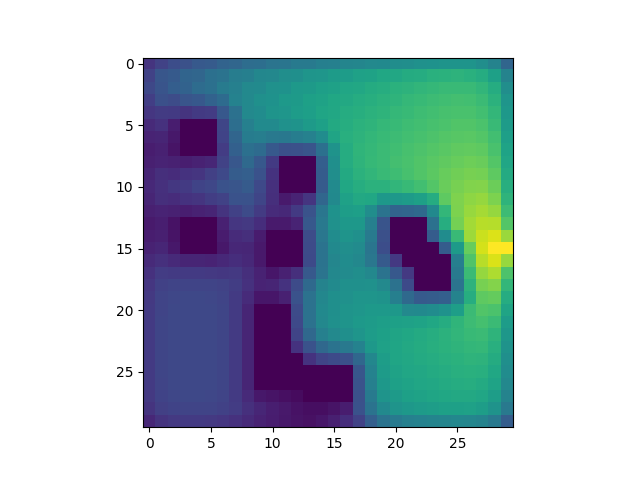
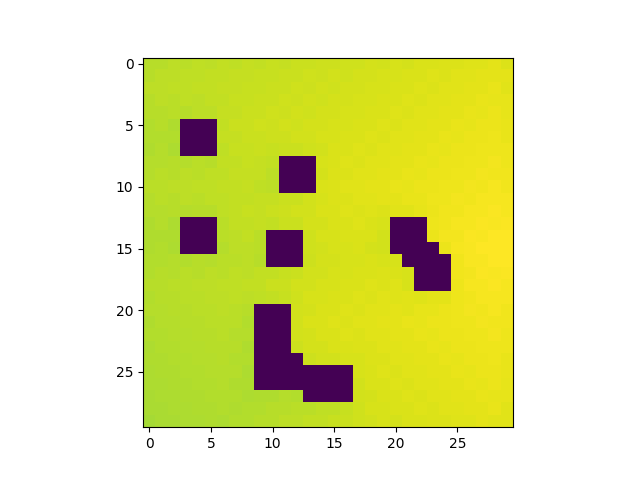
Fix task 3

diff --git a/PS3/nikolay_naglov_ps3/mdp.py b/PS3/nikolay_naglov_ps3/mdp.py
@@ -30,27 +30,22 @@ def mdp(env, goal, gamma=0.99, max_num_of_iterations=100):
                         transition_probs,
                     ) = probabilistic_transition_function(env, current_state, action)
                     rewards = []
-                    transition_states_values = []
+                    transition_state_value = V[
+                        transition_function(env, current_state, action)[0]
+                    ]
                     for state in transition_states:
-                        if not state_consistency_check(env, state):
-                            rewards.append(-1)
-                            transition_states_values.append(0)
-                        elif state == goal:
+                        if state == goal:
                             rewards.append(1)
-                            transition_states_values.append(V[state])
+                        elif not state_consistency_check(env, state):
+                            rewards.append(-1)
                         else:
                             rewards.append(0)
-                            transition_states_values.append(V[state])
                     current_reward_expectation = np.sum(
                         np.array(transition_probs) * np.array(rewards)
                     )
-                    transition_value_expectation = np.sum(
-                        np.array(transition_probs) * np.array(transition_states_values)
-                    )
                     new_value = max(
                         new_value,
-                        current_reward_expectation
-                        + gamma * transition_value_expectation,
+                        current_reward_expectation + gamma * transition_state_value,
                     )
                     new_V[current_state] = new_value
 
@@ -59,7 +54,7 @@ def mdp(env, goal, gamma=0.99, max_num_of_iterations=100):
             break
 
         V = new_V
-    V[goal] = np.max(V)
+    V[goal] = np.max(V) + 0.1
     return V
 
 

diff --git a/PS3/nikolay_naglov_ps3/run.py b/PS3/nikolay_naglov_ps3/run.py
@@ -16,39 +16,39 @@ goal = (15, 29)
 
 # task 1 VI, Gopt
 # ======================================
-task_1_folder = "results/task_1"
-Gopt = vi(environment, goal)
-plt.imshow(Gopt)
-plt.savefig(f"{task_1_folder}/final_G.png")
-plt.clf()
+# task_1_folder = "results/task_1"
+# Gopt = vi(environment, goal)
+# plt.imshow(Gopt)
+# plt.savefig(f"{task_1_folder}/final_G.png")
+# plt.clf()
 
-iterations = [1]
-iterations.extend(list(range(10, 70, 10)))
+# iterations = [1]
+# iterations.extend(list(range(10, 70, 10)))
 
-for i in iterations:
-    G = vi(environment, goal, max_num_of_iterations=i)
-    plt.imshow(G)
-    plt.savefig(f"{task_1_folder}/G_{i}_iters.png")
-    plt.clf()
+# for i in iterations:
+#     G = vi(environment, goal, max_num_of_iterations=i)
+#     plt.imshow(G)
+#     plt.savefig(f"{task_1_folder}/G_{i}_iters.png")
+#     plt.clf()
 
 
 # task 2: Plan
 # ======================================
-task_2_folder = "results/task_2"
+# task_2_folder = "results/task_2"
 
 
-def vi_plan_iteration(x):
-    policy = policy_vi(environment, Gopt)
-    return transition_function(environment, x, policy[x])[0]
+# def vi_plan_iteration(x):
+#     policy = policy_vi(environment, Gopt)
+#     return transition_function(environment, x, policy[x])[0]
 
 
-record_plan(
-    environment,
-    x_ini,
-    goal,
-    vi_plan_iteration,
-    f"{task_2_folder}/plan_vi.mp4",
-)
+# record_plan(
+#     environment,
+#     x_ini,
+#     goal,
+#     vi_plan_iteration,
+#     f"{task_2_folder}/plan_vi.mp4",
+# )
 
 
 # task 3 MDP, Vopt
